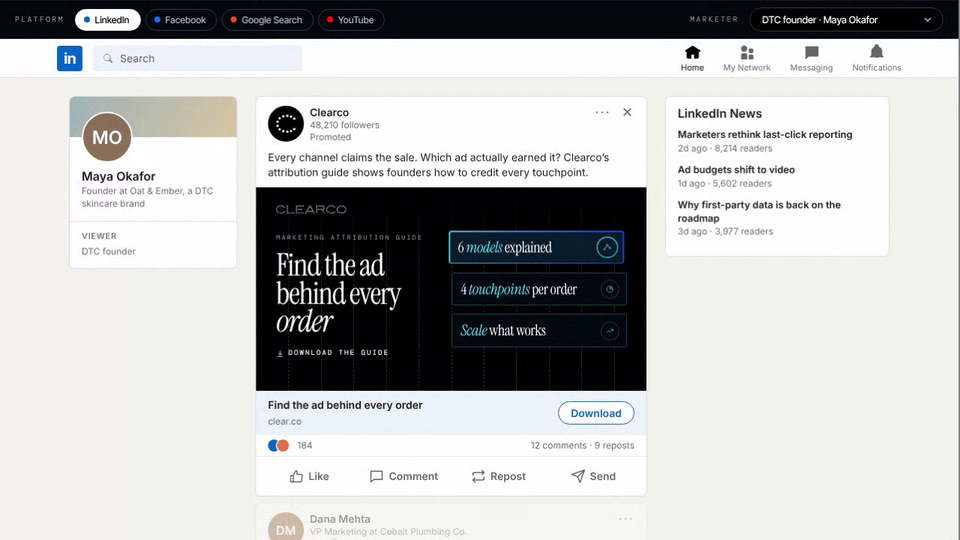
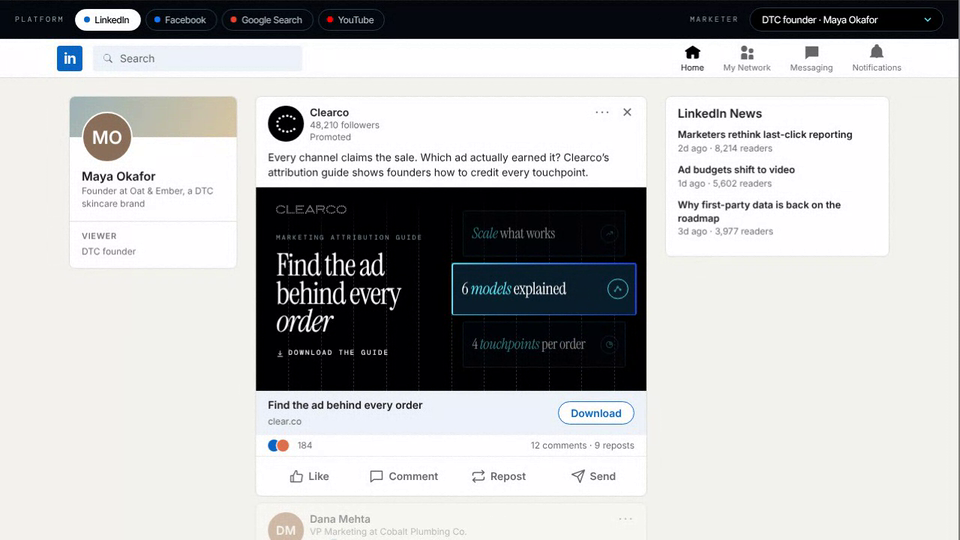
Clearco Paid Ad Pipeline: rolodex value cards, filled read-only guide form with download confirmation, square animated Facebook ad
Claude-Session: https://claude.ai/code/session_01AHeBdxfESGkB61WPERPkmT

Changed region(s): [[0.4688, 0.4148, 0.6875, 0.6519]]

diff --git a/clearco-paid-ad-pipeline/index.html b/clearco-paid-ad-pipeline/index.html
@@ -59,26 +59,45 @@ nav.back span{color:#6e6e6e}nav.back b{font-weight:500;color:#fff;overflow:hidde
 .cr .go svg{width:2cqw;height:2cqw}
 .cr .stage{position:absolute;right:0;top:0;width:50cqw;height:100%;container-type:inline-size}
 .cr .stage>*{pointer-events:none}
-.cr .stage{display:flex;flex-direction:column;justify-content:center;gap:2.2cqw;padding:0 5cqw 0 0}
-.cr .bl{position:relative;display:flex;align-items:center;background:rgba(4,10,16,.94);border:1px solid #24465c;border-radius:3px;padding:4.6cqw 17cqw 4.6cqw 5cqw;color:#fff}
-.cr .bl:nth-child(2){--i:1}.cr .bl:nth-child(3){--i:2}
-.cr .bl::before{content:"";position:absolute;inset:-1px;border-radius:inherit;padding:1.5px;background:linear-gradient(90deg,#2447f5,#3b8cff 25%,#62e6f3 50%,#3b8cff 75%,#2447f5) 0 0/200% 100%;-webkit-mask:linear-gradient(#000 0 0) content-box,linear-gradient(#000 0 0);-webkit-mask-composite:xor;mask:linear-gradient(#000 0 0) content-box exclude,linear-gradient(#000 0 0);opacity:0;pointer-events:none}
-.cr.play .bl{animation:cardin .8s cubic-bezier(.2,.8,.2,1) calc(var(--i,0) * .2s) backwards,hl 6s ease-in-out calc(1.4s + var(--i,0) * 2s) infinite}
-.cr.play .bl::before{animation:hs 6s ease-in-out calc(1.4s + var(--i,0) * 2s) infinite,flow 6s linear infinite}
-.cr.play .bl .ic{animation:icp 6s ease-in-out calc(1.4s + var(--i,0) * 2s) infinite}
-@keyframes cardin{from{opacity:0;transform:translateX(7cqw)}}
-@keyframes hl{0%,34%,100%{background:rgba(4,10,16,.94);transform:none}8%,26%{background:rgba(10,30,44,.96);transform:translateX(-1.6cqw)}}
-@keyframes hs{0%,36%,100%{opacity:0}12%,24%{opacity:1}}
+/* the three cards as a rolodex: the middle one is the prominent one; each step the bottom card moves up to the middle, the middle to the top, and the top fades out and returns at the bottom */
+.cr .bl{position:absolute;left:0;right:5cqw;top:50%;height:27cqw;margin-top:-13.5cqw;display:flex;align-items:center;background:rgba(4,10,16,.94);border:1px solid #24465c;border-radius:3px;padding:0 17cqw 0 5cqw;color:#fff;opacity:0;transform:translateY(38cqw) scale(.84);transition:transform 1.1s cubic-bezier(.45,0,.15,1),opacity .9s ease,background .9s}
+.cr .bl[data-p="0"]{transform:translateY(-28.5cqw) scale(.88);opacity:.5}
+.cr .bl[data-p="1"]{transform:scale(1.0);opacity:1;background:rgba(10,30,44,.97);z-index:2}
+.cr .bl[data-p="2"]{transform:translateY(28.5cqw) scale(.88);opacity:.5}
+.cr .bl[data-p="x"]{transform:translateY(-38cqw) scale(.82);opacity:0}
+.cr .bl[data-p="r"]{transition:none}
+.cr .bl::before{content:"";position:absolute;inset:-1px;border-radius:inherit;padding:1.5px;background:linear-gradient(90deg,#2447f5,#3b8cff 25%,#62e6f3 50%,#3b8cff 75%,#2447f5) 0 0/200% 100%;-webkit-mask:linear-gradient(#000 0 0) content-box,linear-gradient(#000 0 0);-webkit-mask-composite:xor;mask:linear-gradient(#000 0 0) content-box exclude,linear-gradient(#000 0 0);opacity:0;transition:opacity .9s ease;pointer-events:none;animation:flow 6s linear infinite}
+.cr .bl[data-p="1"]::before{opacity:1}
 @keyframes flow{to{background-position:-200% 0}}
-@keyframes icp{0%,34%,100%{transform:translateY(-50%) scale(1);border-color:#2b3d52}8%,26%{transform:translateY(-50%) scale(1.14);border-color:var(--cyan)}}
-@media(prefers-reduced-motion:reduce){.cr.play .bl,.cr.play .bl .ic{animation:none}}
-.cr .bl .ic{position:absolute;right:4cqw;top:50%;width:10.5cqw;height:10.5cqw;transform:translateY(-50%);padding:2.5cqw;border:1px solid #2b3d52;border-radius:50%;color:var(--cyan)}
+.cr .bl[data-p="1"] .ic{border-color:var(--cyan)}
+@media(prefers-reduced-motion:reduce){.cr .bl,.cr .bl::before{transition:none;animation:none}}
+.cr .bl .ic{position:absolute;right:4cqw;top:50%;width:10.5cqw;height:10.5cqw;transform:translateY(-50%);padding:2.5cqw;border:1px solid #2b3d52;border-radius:50%;transition:border-color .9s;color:var(--cyan)}
 .cr .bl strong{display:block;font:400 8.6cqw/1.02 var(--serif);letter-spacing:-.02em}
 .cr .bl strong i{color:var(--cyan)}
 .cr .bl p{white-space:nowrap;font:400 3.7cqw/1.35 var(--sans);color:#aebbc5;margin-top:1.4cqw}
 .cr .bl .sw{display:block}
 .cr .l .sw,.cr .chip .sw{display:inline-block}
 
+
+/* the Facebook creative: a square, white, with rising bars and circles */
+.cr.sq{aspect-ratio:1;background:#fff;color:#000}
+.cr.sq .lg2{position:absolute;right:6cqw;top:5.4cqw;width:25.7cqw;aspect-ratio:978.8/116.8;height:auto;fill:#000;z-index:2}
+.cr.sq h4{position:absolute;left:11.4cqw;top:15.6cqw;margin:0;z-index:2;font:400 13.4cqw/.915 var(--serif);letter-spacing:-.04em;white-space:nowrap;color:#000}
+.cr.sq h4 i{font-style:italic}
+.cr.sq .go2{position:absolute;left:11.7cqw;top:80.6cqw;z-index:2;display:flex;flex-direction:column;gap:1.6cqw;font:400 2cqw/1.5 var(--mono);letter-spacing:.2em;text-transform:uppercase;color:#000}
+.cr.sq .go2 svg{width:2cqw;height:2cqw}
+.fp{position:absolute;left:var(--x);top:0;width:12.1cqw;height:150cqw;transform:translateY(var(--y));animation:fp var(--T) ease-in-out var(--o) infinite;will-change:transform}
+@keyframes fp{0%,100%{transform:translateY(var(--y))}50%{transform:translateY(calc(var(--y) + var(--d)))}}
+.fp .bd{position:absolute;inset:0;border-radius:99px 99px 0 0;background:linear-gradient(180deg,#5aa6f5 0,#7fbaf3 8cqw,#a6dff8 40cqw,#cffbfc 100%)}
+.fp .hd2{position:absolute;left:0;top:0;width:100%;aspect-ratio:1;border-radius:50%;background:linear-gradient(180deg,#2f86ee,#43c8f1 70%,#4fe6f1)}
+.fp .bd::after,.fp .hd2::after{content:"";position:absolute;inset:0;border-radius:inherit;background:var(--grain);mix-blend-mode:overlay;opacity:.55}
+.fp .rg{position:absolute;left:50%;top:6.05cqw;width:0;height:0}
+.fp .rg i{position:absolute;left:0;top:0;border-radius:50%;transform:translate(-50%,-50%);animation:rg 5s ease-in-out infinite}
+.fp .rg i:nth-child(1){width:19.5cqw;height:19.5cqw;background:rgba(110,175,245,.30)}
+.fp .rg i:nth-child(2){width:27cqw;height:27cqw;background:rgba(120,190,250,.18);animation-delay:-1.6s}
+.fp .rg i:nth-child(3){width:35cqw;height:35cqw;background:rgba(140,205,252,.10);animation-delay:-3.2s}
+@keyframes rg{0%,100%{transform:translate(-50%,-50%) scale(.9)}50%{transform:translate(-50%,-50%) scale(1.08)}}
+@media(prefers-reduced-motion:reduce){.fp,.fp .rg i{animation:none}}
 /* ---------- 1a: LinkedIn ---------- */
 #pf-li{background:#f4f2ee;color:rgba(0,0,0,.9);font-family:var(--ui)}
 .lh{background:#fff;border-bottom:1px solid #e0dfdc;height:52px;display:flex;align-items:center;gap:14px;padding:0 max(16px,calc((100% - 1128px)/2))}
@@ -253,6 +272,26 @@ nav.back span{color:#6e6e6e}nav.back b{font-weight:500;color:#fff;overflow:hidde
 .utm span b{color:var(--cyan);font-weight:500;margin-left:8px}
 .next{display:flex;justify-content:space-between;gap:12px;margin-top:24px;flex-wrap:wrap}
 
+
+/* the download confirmation over the guide page */
+.dlp{position:absolute;left:36.5%;bottom:24px;z-index:5;display:flex;align-items:center;gap:16px;background:#040a10;border:1px solid #24465c;padding:16px 26px 16px 16px;opacity:0;transform:translateY(14px);pointer-events:none;transition:opacity .5s,transform .6s cubic-bezier(.2,.8,.2,1);box-shadow:0 18px 50px rgba(0,0,0,.6)}
+.dlp.on{opacity:1;transform:none}
+.dlp .dic{position:relative;width:56px;height:56px;flex:none}
+.dlp svg{position:absolute;inset:0;width:100%;height:100%;fill:none;stroke-linecap:round;stroke-linejoin:round}
+.dlp .ring{stroke:#2b3d52;stroke-width:1.5}
+.dlp .arc{stroke:url(#dlg);stroke-width:1.5;stroke-dasharray:44 120;transform-origin:50% 50%;animation:dlspin 1s linear infinite;transition:stroke-dasharray .6s ease}
+.dlp.done .arc{animation:none;stroke-dasharray:163 0;stroke:var(--cyan)}
+@keyframes dlspin{to{transform:rotate(360deg)}}
+.dlp .doc{stroke:var(--cyan);stroke-width:1.5}
+.dlp .doc path{stroke-dasharray:60;stroke-dashoffset:60;transition:stroke-dashoffset .7s ease}
+.dlp .doc .ck{stroke-dasharray:20;stroke-dashoffset:20}
+.dlp.done .doc path{stroke-dashoffset:0}
+.dlp.done .doc .ck{transition-delay:.55s;stroke-dashoffset:0}
+.dlp b{display:block;font:400 24px/1.05 var(--serif);letter-spacing:-.01em}
+.dlp small{display:block;font:400 10.5px/1.4 var(--mono);letter-spacing:.14em;text-transform:uppercase;color:var(--mute);margin-top:6px}
+.dlp small span{color:var(--cyan)}
+@media(max-width:760px){.dlp{left:12px;right:12px;bottom:12px}.dlp b{font-size:20px}}
+@media(prefers-reduced-motion:reduce){.dlp .arc{animation:none}}
 /* ---------- screen 3: performance ---------- */
 #s3{position:relative;background:#000;padding:24px 20px 56px}
 #s3 .wrap.wide{max-width:1500px}
@@ -396,6 +435,14 @@ tfoot td{font-weight:500;color:#fff;border-top:1px solid #3a4c60}
  </div>
 
  <!-- the creative lives here and is moved into the active platform's slot -->
+ <a class="cr sq" id="cr2" href="#" aria-label="Do you actually know where your orders are coming from? Learn more from the attribution guide. Opens the guide">
+  <div class="fp" style="--x:45%;--y:67.7cqw;--d:-9cqw;--T:6.2s;--o:-1.2s"><span class="bd"></span><span class="hd2"></span></div>
+  <div class="fp" style="--x:64.2%;--y:35.7cqw;--d:7cqw;--T:7.4s;--o:-3.5s"><span class="bd"></span><span class="rg"><i></i><i></i><i></i></span><span class="hd2"></span></div>
+  <div class="fp" style="--x:83.2%;--y:74.4cqw;--d:-12cqw;--T:5.6s;--o:-2.4s"><span class="bd"></span><span class="hd2"></span></div>
+  <svg class="lg2" role="img" aria-label="Clearco"><use href="#clearco"/></svg>
+  <h4>Do you <i>actually</i><br>know where<br>your orders<br>are coming from?</h4>
+  <span class="go2"><svg viewBox="0 0 16 16" fill="none" stroke="currentColor" stroke-width="1.1" aria-hidden="true"><path d="M8 2v9M4.5 7.5 8 11l3.5-3.5M2.5 14h11"/></svg><span>Learn more from<br>the attribution guide</span></span>
+ </a>
  <a class="cr" id="cr" href="#" aria-label="Marketing attribution guide from Clearco. Opens the guide">
   <div class="dl" aria-hidden="true"></div>
   <svg class="lg" role="img" aria-label="Clearco"><use href="#clearco"/></svg>
@@ -414,7 +461,7 @@ tfoot td{font-weight:500;color:#fff;border-top:1px solid #3a4c60}
 <section class="scr" id="s2" aria-label="The guide the ad links to"><div class="wrap">
  <div class="crumb"><h2>Where the click lands</h2></div>
  <div class="browser"><div class="chrome"><div class="dots"><i></i><i></i><i></i></div><div class="url"><svg viewBox="0 0 24 24"><path d="M12 1a5 5 0 0 0-5 5v3H5v14h14V9h-2V6a5 5 0 0 0-5-5zm-3 8V6a3 3 0 0 1 6 0v3z"/></svg><b>clear.co</b><u id="urlq"></u></div></div>
-  <div class="vp" id="vp"><iframe id="fr" title="Clearco Marketing Attribution Guide" loading="lazy"></iframe></div></div>
+  <div class="vp" id="vp"><iframe id="fr" title="Clearco Marketing Attribution Guide" loading="lazy"></iframe><div class="dlp" id="dlp" role="status"><div class="dic"><svg viewBox="0 0 56 56" aria-hidden="true"><defs><linearGradient id="dlg" x1="0" x2="1"><stop offset="0" stop-color="#2447f5"/><stop offset="1" stop-color="#62e6f3"/></linearGradient></defs><circle class="ring" cx="28" cy="28" r="26"/><circle class="arc" cx="28" cy="28" r="26"/></svg><svg class="doc" viewBox="0 0 24 24" aria-hidden="true" style="inset:14px;width:28px;height:28px"><path d="M6 2.5h8l4.5 4.5v14.5H6z"/><path d="M14 2.5V7h4.5"/><path class="ck" d="M9.2 14.6l2.2 2.2 4-4.4"/></svg></div><div><b>Guide will download shortly</b><small>Sent to <span id="dlTo"></span></small></div></div></div></div>
  <div class="utm" aria-label="Tracking parameters"><span>utm_source<b id="uSrc"></b></span><span>utm_medium<b id="uMed"></b></span><span>utm_campaign<b>attribution_guide</b></span><span>utm_content<b id="uCon"></b></span></div>
  <div class="next"><button class="btn ghost" data-go="1">← Back to the ad</button><button class="btn solid" data-go="3">See how it performed →</button></div>
 </div></section>
@@ -448,7 +495,7 @@ const GUIDE=new URL('../clearco-attribution-guide/',location.href).href;
 
 /* ---------- the audience: one entry per marketer (ad copy, the guide's intro and the sample numbers) ---------- */
 const M=[
- {k:'dtc_founder',label:'DTC founders',name:'Maya Okafor',init:'MO',hue:'#8a6f5a',role:'Founder at Oat & Ember, a DTC skincare brand',seg:'DTC founder',
+ {k:'dtc_founder',email:'maya@oatandember.com',label:'DTC founders',name:'Maya Okafor',init:'MO',hue:'#8a6f5a',role:'Founder at Oat & Ember, a DTC skincare brand',seg:'DTC founder',
   q:'how to know which ad led to a sale',
   h:['Find the ad','behind every','order'],
   intro:'Every channel claims the sale. Which ad actually earned it? Clearco’s attribution guide shows founders how to credit every touchpoint.',
@@ -457,7 +504,7 @@ const M=[
   lede:'You sell across a handful of channels, and every one of them claims the order. Here’s how to see which ad actually earned it.',
   b:[['6 <i>models</i> explained','From first-touch to W-shaped'],['4 <i>touchpoints</i> per order','Video, search, email and social'],['<i>Scale</i> what works','Spend a founder’s budget with proof']],
   impr:96000,ctr:.011,cpc:2.9,lp:.87,cv:.26},
- {k:'growth_lead',label:'growth teams',name:'Jordan Ellis',init:'JE',hue:'#4f7a62',role:'Head of Growth at Fieldnote, a B2B SaaS company',seg:'Head of Growth',
+ {k:'growth_lead',email:'jordan.ellis@fieldnote.io',label:'growth teams',name:'Jordan Ellis',init:'JE',hue:'#4f7a62',role:'Head of Growth at Fieldnote, a B2B SaaS company',seg:'Head of Growth',
   q:'multi touch attribution models for b2b growth',
   h:['Credit every','channel in the','funnel'],
   intro:'Last-click reports hide the channels that start the journey. Compare six attribution models and show which spend drives pipeline.',
@@ -466,7 +513,7 @@ const M=[
   lede:'Last-click reports hide the channels that start the journey. Here’s how to compare six models and show which spend drives pipeline.',
   b:[['<i>Pipeline</i>, not last clicks','Credit the channels that start deals'],['6 <i>models</i> compared','Single-touch to W-shaped, side by side'],['<i>Lead creation</i> counts','W-shaped gives it 30% of the credit']],
   impr:118000,ctr:.0086,cpc:5.2,lp:.9,cv:.21},
- {k:'paid_media',label:'media buyers',name:'Sam Torres',init:'ST',hue:'#3d6f9e',role:'Paid Media Manager at Halcyon Outdoors',seg:'Paid media manager',
+ {k:'paid_media',email:'sam.torres@halcyonoutdoors.com',label:'media buyers',name:'Sam Torres',init:'ST',hue:'#3d6f9e',role:'Paid Media Manager at Halcyon Outdoors',seg:'Paid media manager',
   q:'first touch vs last touch vs time decay attribution',
   h:['Stop giving','last click all','the credit'],
   intro:'Every platform dashboard takes credit for the same order. Compare first-touch, linear and time-decay models on one journey.',
@@ -475,7 +522,7 @@ const M=[
   lede:'Every platform dashboard takes credit for the same order. Here’s the same journey shared six ways, so you can defend your spend.',
   b:[['<i>6</i> ways to share credit','Same journey, six different answers'],['<i>Time-decay</i> in one view','50% to the closer, 5% to the opener'],['<i>Defend</i> your budget','Show what the upper funnel is worth']],
   impr:84000,ctr:.0121,cpc:3.8,lp:.88,cv:.29},
- {k:'ecommerce',label:'e-commerce teams',name:'Dana Mehta',init:'DM',hue:'#b5651d',role:'E-commerce Manager at Cobalt Home',seg:'E-commerce manager',
+ {k:'ecommerce',email:'dana.mehta@cobalthome.com',label:'e-commerce teams',name:'Dana Mehta',init:'DM',hue:'#b5651d',role:'E-commerce Manager at Cobalt Home',seg:'E-commerce manager',
   q:'which marketing channel gets credit for a purchase',
   h:['See every step','before the','checkout'],
   intro:'A shopper watches a video, searches, ignores an email, then buys. Learn which touchpoints deserve the credit before you move budget.',
@@ -484,7 +531,7 @@ const M=[
   lede:'A shopper watches a video, searches, ignores an email, then buys. Here’s how to see which touchpoints deserve the credit.',
   b:[['<i>4</i> stops before checkout','Video, search, email, then a social ad'],['<i>Linear</i> or time-decay?','Pick the model that fits your cycle'],['<i>Move</i> budget with proof','See which channels earn their spend']],
   impr:102000,ctr:.0098,cpc:3.1,lp:.86,cv:.24},
- {k:'agency_owner',label:'agencies',name:'Chris Lee',init:'CL',hue:'#7b5ea7',role:'Founder at North Studio, a performance marketing agency',seg:'Agency owner',
+ {k:'agency_owner',email:'chris@northstudio.co',label:'agencies',name:'Chris Lee',init:'CL',hue:'#7b5ea7',role:'Founder at North Studio, a performance marketing agency',seg:'Agency owner',
   q:'explain marketing attribution to clients',
   h:['Show clients','which ads','earn credit'],
   intro:'Clients ask which ads earned the sale. Give them a clear answer with the multi-touch models in Clearco’s attribution guide.',
@@ -503,6 +550,8 @@ const P=[
 const MODELS=[['First-touch',[100,0,0,0]],['Last-touch',[0,0,0,100]],['Linear',[25,25,25,25]],['Time-decay',[5,15,30,50]],['U-shaped',[40,10,10,40]],['W-shaped',[30,30,10,30]]];
 const state={s:1,m:0,p:0,metric:'clicks',model:3}; // m: marketer (-1 = all, performance screen only), p: platform index (-1 = all, performance screen only)
 
+function tile(n,fn){const c=document.createElement('canvas');c.width=c.height=n;const g=c.getContext('2d'),d=g.createImageData(n,n);for(let i=0;i<n*n;i++)fn(d.data,i*4,Math.random());g.putImageData(d,0,0);return c}
+document.documentElement.style.setProperty('--grain','url('+tile(128,(p,i,v)=>{const w=v>.5;p[i]=p[i+1]=p[i+2]=w?255:0;p[i+3]=Math.round(Math.abs(v-.5)*2*120)}).toDataURL()+')');
 $('cr').querySelector('.dl').innerHTML=[...Array(11)].map((_,i)=>`<i style="left:${(i+1)*100/12}%"></i>`).join('');
 
 /* ---------- controls ---------- */
@@ -522,6 +571,7 @@ function go(n,quiet){
  document.querySelectorAll('#tog button').forEach(b=>b.classList.toggle('on',+b.dataset.s===n));
  if(!quiet)history.replaceState(null,'','#'+['ad','guide','perf'][n-1]);
  syncCtl();paintAll(true);mount();
+ if(n!==2){dlTk++;$('dlp').classList.remove('on','done')}
  if(n===2)loadPage(FR[0]);if(n===3){loadPage(FR[1]);drawDash()}
  scrollTo(0,0);
 }
@@ -531,9 +581,10 @@ document.querySelectorAll('[data-go]').forEach(b=>b.onclick=e=>{if(b.tagName==='
 /* ---------- 1: the ad ---------- */
 const cr=$('cr');
 function mount(){const pf=P[Math.max(0,state.p)].k;document.querySelectorAll('.pf').forEach(e=>e.classList.toggle('on',e.id==='pf-'+pf));
- const slot=(pf!=='yt'&&document.querySelector('#pf-'+pf+' .slot'))||$('park');if(cr.parentNode!==slot)slot.appendChild(cr);
+ const slot=(pf==='li'&&document.querySelector('#pf-li .slot'))||$('park');if(cr.parentNode!==slot)slot.appendChild(cr);
+ const slot2=(pf==='fb'&&document.querySelector('#pf-fb .slot'))||$('park');if($('cr2').parentNode!==slot2)slot2.appendChild($('cr2'));
  const v=$('ytv');if(pf==='yt'&&state.s===1){v.play().catch(()=>{})}else v.pause();
- cr.href=$('vid').href=adUrl();cr.classList.remove('play');void cr.offsetWidth;cr.classList.add('play')}
+ cr.href=$('cr2').href=$('vid').href=adUrl();rolo.start()}
 function adUrl(){const p=P[Math.max(0,state.p)],m=M[Math.max(0,state.m)];return GUIDE+'?'+utmQ(p,m)}
 function utmQ(p,m){return `utm_source=${p.src}&utm_medium=${p.med}&utm_campaign=attribution_guide&utm_content=${m.k}`}
 const TXT={init:m=>m.init,name:m=>m.name,role:m=>m.role,seg:m=>m.seg,intro:m=>m.intro,bar:m=>m.h.join(' '),fbd:m=>m.fbd,q:m=>m.q,gt:m=>m.gt,gd:m=>m.gd,yt:m=>m.yt};
@@ -547,7 +598,7 @@ const swEls=()=>[...document.querySelectorAll('.sw')];
 function paintAll(instant){if(instant){paintAd();return}
  swEls().forEach(e=>e.classList.add('out'));setTimeout(()=>{paintAd();swEls().forEach(e=>e.classList.remove('out'))},300)}
 function setMarketer(i,instant){state.m=i;syncCtl();if(state.s===3){drawDash();return}
- paintAll(instant);if(state.s===2)syncFrame(FR[0])}
+ paintAll(instant);if(state.s===2){syncFrame(FR[0]);playDownload()}}
 function setPlatform(i,user){state.p=i;syncCtl();if(state.s===3){drawDash();return}
  mount();paintAd();
  if(state.s===1){const r=cr.getBoundingClientRect();scrollTo(0,Math.max(0,scrollY+r.top-170))}
@@ -559,7 +610,7 @@ $('skip').onclick=()=>toast('Skipped. It still counts as a touchpoint.');
 {const v=$('ytv'),f=n=>'0:'+String(Math.max(0,Math.ceil(n))).padStart(2,'0');
  v.addEventListener('timeupdate',()=>{if(!v.duration)return;document.querySelector('.yo .pg i').style.width=(v.currentTime/v.duration*100)+'%';$('adt').textContent=f(v.duration-v.currentTime)})}
 /* a plain click on the creative follows the visitor to the guide; modified clicks open the real URL */
-[cr,$('vid')].forEach(a=>a.addEventListener('click',e=>{if(e.metaKey||e.ctrlKey||e.shiftKey||e.button)return;e.preventDefault();go(2)}));
+[cr,$('cr2'),$('vid')].forEach(a=>a.addEventListener('click',e=>{if(e.metaKey||e.ctrlKey||e.shiftKey||e.button)return;e.preventDefault();go(2)}));
 
 /* ---------- 2: the guide, the real page in an iframe scaled to fit ---------- */
 const FR=[{fr:$('fr'),vp:$('vp'),on:false},{fr:$('fr2'),vp:$('vp2'),on:false}];
@@ -568,8 +619,27 @@ function fit(o){const w=o.vp.clientWidth,mob=w<760,vw=mob?(o.vp.dataset.split?38
 function syncFrame(o){try{const d=o.fr.contentDocument;if(!d||!d.head||!d.querySelector('.hero'))return;
  if(!d.getElementById('ppx')){const s=d.createElement('style');s.id='ppx';s.textContent='nav.back{display:none!important}';d.head.appendChild(s)}
  const m=M[Math.max(0,state.m)],l=d.querySelector('.hero .lede');
- if(l)l.textContent=m.lede}catch(e){/* cross-origin (file://): leave the page as it is */}}
-function loadPage(o){fit(o);if(!o.on){o.on=true;o.fr.onload=()=>{syncFrame(o);setTimeout(()=>syncFrame(o),400)};o.fr.src=adUrl()}else syncFrame(o)}
+ if(l)l.textContent=m.lede;if(o===FR[1])lockForms(o,true)}catch(e){/* cross-origin (file://): leave the page as it is */}}
+/* the form on the guide is filled in for the marketer (read-only), then the download confirmation plays */
+let dlTk=0;const wait=ms=>new Promise(r=>setTimeout(r,ms));
+function lockForms(o,fill){try{const d=o.fr.contentDocument,m=M[Math.max(0,state.m)];if(!d||!d.head)return;
+ if(!d.getElementById('ppl')){const s=d.createElement('style');s.id='ppl';s.textContent='.signup input{pointer-events:none;caret-color:transparent}.signup .btn.press{transform:scale(.96)}';d.head.appendChild(s)}
+ d.querySelectorAll('.signup').forEach(f=>{const i=f.querySelector('input');i.readOnly=true;i.tabIndex=-1;const b=f.querySelector('button');if(b)b.tabIndex=-1;
+  f.addEventListener('submit',e=>e.stopImmediatePropagation(),true);if(fill)i.value=m.email})}catch(e){}}
+async function playDownload(){const tk=++dlTk,dl=$('dlp'),o=FR[0];dl.classList.remove('on','done');
+ {const r=$('vp').getBoundingClientRect();if(r.bottom>innerHeight)scrollBy({top:r.bottom-innerHeight+20,behavior:'smooth'})}
+ try{const d=o.fr.contentDocument,m=M[Math.max(0,state.m)];if(!d||!d.querySelector('.hero'))return;lockForms(o,false);
+  const fs=[...d.querySelectorAll('.signup')],f=fs[0],i=f.querySelector('input'),b=f.querySelector('button');
+  d.querySelectorAll('.signup input').forEach(x=>x.value='');
+  await wait(900);if(tk!==dlTk)return;
+  for(const c of m.email){i.value+=c;await wait(38);if(tk!==dlTk)return}
+  fs.slice(1).forEach(s=>s.querySelector('input').value=m.email);
+  await wait(500);if(tk!==dlTk)return;b.classList.add('press');await wait(160);b.classList.remove('press');
+  $('dlTo').textContent=m.email;
+  {const vw=$('vp').clientWidth;if(vw>=760){const sc=vw/1280,r=f.getBoundingClientRect();dl.style.minWidth=Math.round(r.width*sc)+'px';dl.style.left=Math.round(r.left*sc)+'px';dl.style.bottom='auto';dl.style.top=Math.round((r.top+r.height/2)*sc-dl.offsetHeight/2)+'px'}else{dl.style.minWidth=dl.style.left=dl.style.top=dl.style.bottom=''}}
+  dl.classList.add('on');
+  await wait(2000);if(tk!==dlTk)return;dl.classList.add('done')}catch(e){}}
+function loadPage(o){fit(o);if(!o.on){o.on=true;o.fr.onload=()=>{syncFrame(o);setTimeout(()=>syncFrame(o),400);if(o===FR[0]&&state.s===2)playDownload();if(o===FR[1])lockForms(o,true)};o.fr.src=adUrl()}else{syncFrame(o);if(o===FR[0])playDownload()}}
 addEventListener('resize',()=>{if(state.s===2)fit(FR[0]);if(state.s===3){fit(FR[1]);drawDash()}});
 
 /* ---------- 3: performance ---------- */
@@ -634,7 +704,15 @@ function drawChart(days){
 }
 
 /* ---------- start ---------- */
-window.__pp={go,setMarketer:i=>setMarketer(i),setPlatform:i=>setPlatform(i)};
+/* the rolodex: bottom card up to the middle, middle up to the top, top fades out and comes back at the bottom */
+const BL=[1,2,3].map(n=>$('bl'+n));
+const rolo={order:[0,1,2],timer:0,tk:0,
+ set(){this.order.forEach((c,p)=>{BL[c].dataset.p='r'});void BL[0].offsetWidth;this.order.forEach((c,p)=>{BL[c].dataset.p=p})},
+ step(){const [top,mid,bot]=this.order,tk=this.tk;BL[top].dataset.p='x';BL[mid].dataset.p=0;BL[bot].dataset.p=1;this.order=[mid,bot,top];
+  setTimeout(()=>{if(tk!==this.tk)return;BL[top].dataset.p='r';void BL[top].offsetWidth;BL[top].dataset.p=2},700)},
+ start(){this.stop();this.order=[2,0,1];this.set();if(!matchMedia('(prefers-reduced-motion: reduce)').matches)this.timer=setInterval(()=>this.step(),3400)},
+ stop(){clearInterval(this.timer);this.tk++}};
+window.__pp={rolo,go,setMarketer:i=>setMarketer(i),setPlatform:i=>setPlatform(i)};
 const h=location.hash.slice(1),start={ad:1,guide:2,perf:3}[h]||1;
 go(start,true);
 </script>
